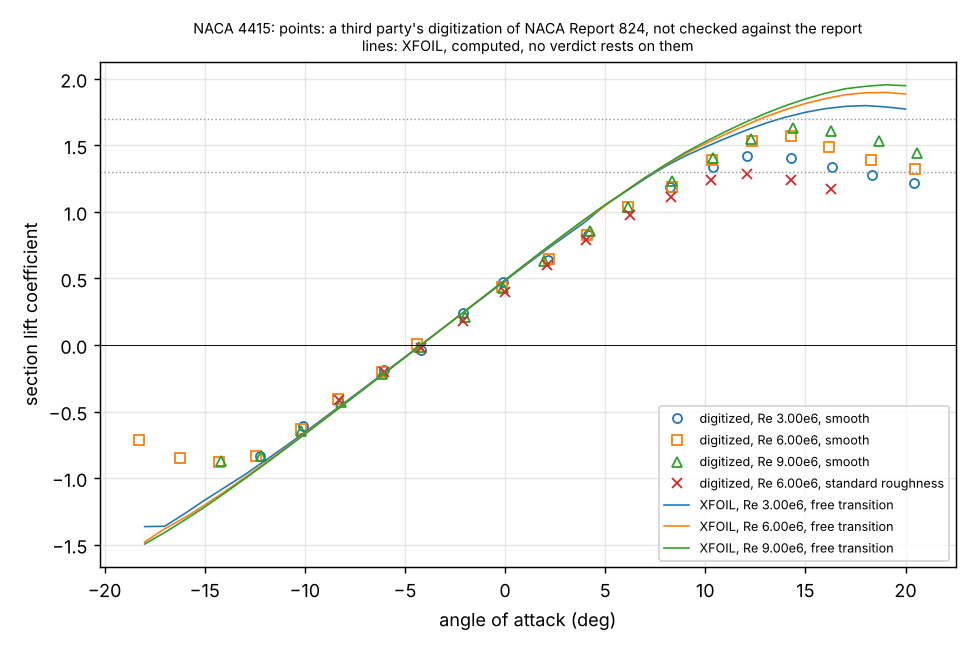
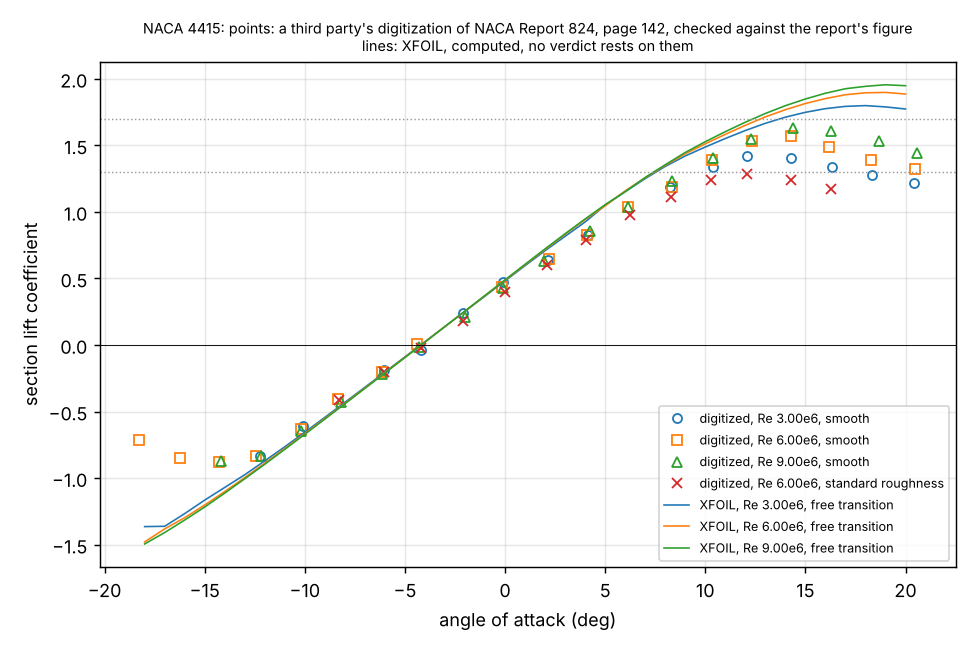
Task 12 PD P2 (report): report of the re-record with the figure check; one record test corrected
Rows 1 to 3 are no longer provisional: 11 of 11 digitized values agree with two readings of the figure on
page 142 of NACA Report 824 within a third of a symbol. No number of rows 1 to 7 changed. The record test
compared the source record with its JSON copy without allowing for JSON's text keys; fixed after the run.

Claude-Session: https://claude.ai/code/session_01VzP3mECvca1AkbqKiLURS4

Changed region(s): [[0.1538, 0.0308, 0.9538, 0.0615]]

diff --git a/tests/task12_pd/test_p2_record.py b/tests/task12_pd/test_p2_record.py
@@ -43,7 +43,7 @@ def test_record_has_its_files_and_says_where_it_comes_from(p):
 
 def test_record_carries_the_source_record_and_the_figure_check(p, acc):
     s = p["source"]
-    assert s == yaml.safe_load(p2.SOURCE.read_text())
+    assert s == json.loads(json.dumps(yaml.safe_load(p2.SOURCE.read_text())))        # JSON turns the set numbers into text
     assert s["report"]["opened_in_this_session"] is True and s["reading"]["read_twice"] is True
     assert s["sections"]["naca4415"]["figure"] is None and s["sections"]["naca4415"]["page"] == 142
     want = p2.figure_check(s, p2.measured_sets("naca4415"))

diff --git a/docs/validation/2026-11-27_task12_pd_p2.md b/docs/validation/2026-11-27_task12_pd_p2.md
@@ -1,20 +1,22 @@
 # Task 12 preliminary design P2: wing section and section data
 
-Generated by `python -m prelim.p2_section --report-only` from `runs/task12/pd/2026-11-27/p2/p2.json`. Every number below is read from that file. Spec: `docs/specs/task12_preliminary_design.md`, package P2 (decisions PD-5, PD-6). Bands and tolerances were fixed before the run; nothing was tuned. r0 (`runs/task12/pd/2026-11-27/p0/r0`) was read and not changed.
+Generated by `python -m prelim.p2_section --report-only` from `runs/task12/pd/2026-11-27/p2b/p2.json`. Every number below is read from that file. Spec: `docs/specs/task12_preliminary_design.md`, package P2 (decisions PD-5, PD-6). Bands and tolerances were fixed before the run; nothing was tuned. r0 (`runs/task12/pd/2026-11-27/p0/r0`) was read and not changed.
 
-Evidence class: **independent of Stage 1 and of the library (measured data), but read through a third party's digitization that was not checked against the report**.
+Evidence class: **independent of Stage 1 and of the library: measured data of NACA Report 824, read through a third party's digitization that was checked against the report's figure**.
+
+This record supersedes `runs/task12/pd/2026-11-27/p2` (made before NACA Report 824 could be opened; kept, see its `SUPERSEDED.md`).
 
 ## 1. Run
 
-- Command: `python -m prelim.p2_section --out runs/task12/pd/2026-11-27/p2`
-- Commit `0eee58d88d2158c11e95165de321835ab98f228d`; working tree at the start: clean (the run's own folder `runs/task12/pd/2026-11-27/p2` is not counted); unchanged during the run: yes.
+- Command: `python -m prelim.p2_section --out runs/task12/pd/2026-11-27/p2b`
+- Commit `3268b131e7b512d672133a19e7de289bcead8ab8`; working tree at the start: clean (the run's own folder `runs/task12/pd/2026-11-27/p2b` is not counted); unchanged during the run: yes.
 - Seed: none (no random numbers are drawn in P2). python 3.13.18, numpy 2.5.3, pyyaml 6.0.3, matplotlib 3.11.2. XFOIL 6.99.dfsg+1-3 (Debian package).
-- Inputs (sha256, first 12): `runs/task12/pd/2026-11-27/p0/r0/design_pusher.json` 2af85aca9acd; `runs/task12/pd/2026-11-27/p0/r0/ledger.yaml` a3b88c45e6cb; `runs/task12/pd/2026-11-27/p0/r0/cell_result.json` 83c078c1433f; `runs/task12/pd/2026-11-27/p0/r0/m250_table.json` 48e24462bb64; `data/task12/pd_p2_section_source.yaml` becb7cd4e350; `data/task12/tr824_digitized/142.ALL` c6f95d8eb794; `data/task12/tr824_digitized/NACA.LST` 2d140795c8bf.
-- Log: `runs/task12/pd/2026-11-27/p2/run.log`. Run time 9 s.
+- Inputs (sha256, first 12): `runs/task12/pd/2026-11-27/p0/r0/design_pusher.json` 2af85aca9acd; `runs/task12/pd/2026-11-27/p0/r0/ledger.yaml` a3b88c45e6cb; `runs/task12/pd/2026-11-27/p0/r0/cell_result.json` 83c078c1433f; `runs/task12/pd/2026-11-27/p0/r0/m250_table.json` 48e24462bb64; `data/task12/pd_p2_section_source.yaml` 4c07a7c0ef04; `data/task12/tr824_digitized/142.ALL` c6f95d8eb794; `data/task12/tr824_digitized/NACA.LST` 2d140795c8bf.
+- Log: `runs/task12/pd/2026-11-27/p2b/run.log`. Run time 9 s.
 
 ## 2. Acceptance rows
 
-Rows 1 to 5 are the spec's. Rows 6 and 7 were added in `tests/task12_pd/test_p2_section.py` and `prelim/p2_section.py` before the run.
+Rows 1 to 5 are the spec's. Rows 6 and 7 were added in `tests/task12_pd/test_p2_section.py` and `prelim/p2_section.py` before the first run; row 8 was added with the figure check. A verdict marked provisional rests on a digitized value that the figure check does not confirm.
 
 | # | Row | Result | Band or tolerance | Verdict |
 |---|---|---|---|---|
@@ -25,33 +27,55 @@ Rows 1 to 5 are the spec's. Rows 6 and 7 were added in `tests/task12_pd/test_p2_
 | 5 | SU2 validation row | owner default O-1: the Colab notebook is not started; P2 closes on measured data (PD-6) | slope 5 %, lift at zero angle 0.05, maximum lift 0.10 | **not run** |
 | 6 | added: the digitized lift curve against thin-airfoil theory (gross-error check of the source file) | zero-lift angle -0.07 deg from theory; slope 0.929 of 2 pi per radian | 1.0 deg; 0.85 to 1.15 | **pass** |
 | 7 | added: XFOIL polars as a third source (PD-6) | section 10 | - | **reported, no verdict** |
+| 8 | added: the digitized values against two readings of the report's figure, within the reading uncertainty | 11 of 11 values agree (section 4) | a third of a symbol | **pass** |
 
 ## 3. Findings
 
 1. **Clean wing maximum lift is lower than r0's. Finding for r1 (P9).** The digitized NACA 4415 points give a section maximum of 1.418 at Re 3.00 million, smooth (highest plotted point, at 12.1 deg). By (12.15) the clean wing has 1.276 against r0's 1.350; take-off 1.744 against 1.818, landing 2.056 against 2.130. r0 assumed a section value of 1.50. r0 is not changed here.
 2. **R17 re-flown on the built aircraft with that value.** Every loiter sub-step sits on the 1.3 V_stall floor (floor fraction 1.00), so the loiter speed rises from 87.26 to 89.75 kt true airspeed (mean of the leg) and the hours on station on r0's fuel fall from 11.00 to 10.90 h (-0.10 h). R5 needs 8.0 h at nominal values: still met. Clean stall at W0, sea level: 54.86 kt against 53.33 kt (R7 allows 70 kt; the clause holds down to a clean wing value of 0.78). Take-off over 50 ft 734 ft against 711 ft, landing 1,359 ft against 1,349 ft (limit 2,500 ft).
-3. **Reading scatter.** The digitized lift points of that set lie 0.034 (root mean square, 5 points) from a straight line between -6 and 6 deg. With the section value lowered by twice that (1.350) the clean wing has 1.215 and the built aircraft 10.80 h on station at 91.97 kt. That is still at or above the ledger band's low end of 1.3. The points were not read from the report here, so this scatter is the only measure of the reading error that this package has.
+3. **Reading scatter.** The digitized lift points of that set lie 0.034 (root mean square, 5 points) from a straight line between -6 and 6 deg. With the section value lowered by twice that (1.350) the clean wing has 1.215 and the built aircraft 10.80 h on station at 91.97 kt. That is still at or above the ledger band's low end of 1.3. This scatter is wider than the reading uncertainty of the figure check (section 4): it is mostly the tunnel's own scatter over 5 points. It is kept as the wider sensitivity.
 4. **The loiter is flown at a lower Reynolds number than the data covers.** R17's floor is 1.3 times the stall speed at the mission altitude. There the stall Reynolds number at the mean chord is 2.77 million, below the lowest set (3.00 million), and the tip is lower still (section 5). In the sets the maximum lift falls as the Reynolds number falls, so the value used here is, if anything, high for the loiter. Nothing was extrapolated. Data at 2 million or below, or the SU2 polars after their validation row, would close this.
 5. **The robustness study already covers this value.** The info-gap study of r0 moves the section maximum lift over 1.3 to 1.7, and its worst endurance point at h = 1 has it at 1.30: 3.83 h there (the cell record says 3.83 h; need 3.5 h). With the measured value in place of the band's low end, the same point gives 3.95 h. So the measured value moves the nominal aircraft, not the guarantee, as long as the band stays. Whether the band is re-centred on the measurement is for P9 and Gate C (C7).
 6. **Interaction with P1's findings 1 and 2 (climb at the worst endurance point).** A lower clean maximum lift raises the stall speed at the top of the climb at nominal values too. P1's climb check was not run again here; P9 runs it on r1.
 7. **Section moment.** Mean moment coefficient about the quarter chord between -6 and 6 deg: -0.0911 (5 points, -0.0935 to -0.0882). The ledger has -0.08 with the band -0.10 to -0.04: inside the band, so no finding by the spec's rule; the measured value is more nose-down than the ledger's and goes to P4's trim check and to r1 as an input.
-8. **The source is a digitization, not the report.** NACA Report 824 could not be opened from the container (its hosts were refused by the session's network proxy). The points are a public third-party digitization of the report's figure. They were not read twice and not compared with the figure. Section 4 says what has to be done to close this.
-9. **No measured data for the tail section.** NACA.LST of the archive lists the NACA 0006 and 0009 and no 0012, and the report could not be opened to look for it. No measured 0012 data is used in P2. The NACA 0012 rows of section 10 are XFOIL only.
+8. **The digitized file was checked against the report's figure.** NACA Report 824 was opened (NTRS 19930090976, printed page 142). 11 of 11 values agree with two readings of the figure within the reading uncertainty (section 4). The maximum lift of the set used reads 1.414 and 1.415 on the figure against 1.418 digitized. The largest difference in maximum lift is 0.012 (set 2; uncertainty 0.013). Rows 1 to 3 are no longer provisional. This record supersedes `runs/task12/pd/2026-11-27/p2`, which was made before the report could be opened; no number of rows 1 to 7 changed.
+9. **The drawn curve peaks above the highest symbol.** The drawn curve of the 3.0 million set peaks at about 1.43 between its two highest symbols (one reading by eye). P2's rule takes the highest symbol. The rule was fixed before the figure was seen and is kept; it is the lower of the two readings of the section maximum. P9 decides which one r1 takes.
+10. **No measured data for the tail section.** NACA Report 824 has no section-characteristics page for the NACA 0012: the index of its part V (printed page 129) lists the NACA 0006 (page 131) and 0009 (page 132) and then the NACA 1408; the 0012 appears in the report only as a thickness form (ordinates and pressure distribution). No measured 0012 data is used in P2. A candidate that was not opened: NACA-TR-586 (NTRS 19930091662). The NACA 0012 rows of section 10 are XFOIL only.
 
-## 4. Source of the section data
+## 4. Source of the section data and the figure check
 
-- Report: NACA Report 824 (TR-824). Opened in this session: **no**. The report is a scan and its hosts were not reachable from the container on 2026-11-27. The points used here were therefore not read from the report's figure by this project. They are a third party's digitization of that figure (below).
-- What was tried and refused: `ntrs.nasa.gov` (curl: curl: (56) CONNECT tunnel failed, response 403 (egress proxy: connect_rejected)); `ntrs.nasa.gov` (WebFetch: getaddrinfo ENOTFOUND ntrs.nasa.gov (outside the session's allowed network domains)); `archive.org` (curl: no connection through the proxy (HTTP code 000)); `web.archive.org` (curl: no connection through the proxy (HTTP code 000)); `digital.library.unt.edu` (curl: no connection through the proxy (HTTP code 000)); `naca.central.cranfield.ac.uk` (curl: no connection through the proxy (HTTP code 000)); `m-selig.ae.illinois.edu` (curl: no connection through the proxy (HTTP code 000)); `airfoiltools.com` (curl: no connection through the proxy (HTTP code 000)).
-- What was used: Text files of the plotted points of NACA TR 824, one file per page of the report, made in 1994 by Gregory P. D. Siemens at the University of Saskatchewan and declared public domain in the archive's Readme.txt. Each file holds angle of attack against lift coefficient, angle of attack against moment coefficient about the quarter chord, lift coefficient against drag coefficient, and lift coefficient against moment coefficient about the aerodynamic centre.
[1 lines of base64/hex data omitted]
+- Refused in the first pass: `ntrs.nasa.gov` (curl: curl: (56) CONNECT tunnel failed, response 403 (egress proxy: connect_rejected)); `ntrs.nasa.gov` (WebFetch: getaddrinfo ENOTFOUND ntrs.nasa.gov (outside the session's allowed network domains)); `archive.org` (curl: no connection through the proxy (HTTP code 000)); `web.archive.org` (curl: no connection through the proxy (HTTP code 000)); `digital.library.unt.edu` (curl: no connection through the proxy (HTTP code 000)); `naca.central.cranfield.ac.uk` (curl: no connection through the proxy (HTTP code 000)); `m-selig.ae.illinois.edu` (curl: no connection through the proxy (HTTP code 000)); `airfoiltools.com` (curl: no connection through the proxy (HTTP code 000)).
+- NACA 4415: printed page **142** (page 144 of the PDF). Figure number: none; the figures of the report's part V are not numbered. Caption: "Aerodynamic characteristics of the NACA 4415 airfoil section, 24-inch chord." Legend: R: circle 3.0 x 10^6 (a.c. position x/c 0.241, y/c -0.066); square 6.0 (0.241, -0.040); diamond 9.0 (0.245, -0.040); triangle 6.0, standard roughness; inverted triangle 6.0, 0.20c simulated split flap deflected 60 deg.
+- Reynolds numbers of the sets checked against the legend: yes. set 1: 3.00 million, smooth; set 2: 6.00 million, smooth; set 3: 9.00 million, smooth; set 4: 6.00 million, standard roughness.
+- The points used: Text files of the plotted points of NACA TR 824, one file per page of the report, made in 1994 by Gregory P. D. Siemens at the University of Saskatchewan and declared public domain in the archive's Readme.txt. Each file holds angle of attack against lift coefficient, angle of attack against moment coefficient about the quarter chord, lift coefficient against drag coefficient, and lift coefficient against moment coefficient about the aerodynamic centre.
 - Repository https://github.com/enritoomey/Perfiles2D at commit `64511f3a404398b6637fae047e2747b99ab0bf53`, folder `TR824-Digitized` (MIT (file License of the repository)); fetched 2026-11-27, git clone --depth 1 through the session proxy.
 - `142.ALL`: https://github.com/enritoomey/Perfiles2D/blob/64511f3a404398b6637fae047e2747b99ab0bf53/TR824-Digitized/142.ALL ; sha256 `c6f95d8eb794a027`; committed as `data/task12/tr824_digitized/142.ALL`; byte for byte the same as TR824-Digitized/4415.txt of the same commit (cmp, 2026-11-27).
 - `NACA.LST`: https://github.com/enritoomey/Perfiles2D/blob/64511f3a404398b6637fae047e2747b99ab0bf53/TR824-Digitized/NACA.LST ; sha256 `2d140795c8bf9c78`; committed as `data/task12/tr824_digitized/NACA.LST`.
 - `Readme.txt`: https://github.com/enritoomey/Perfiles2D/blob/64511f3a404398b6637fae047e2747b99ab0bf53/TR824-Digitized/Readme.txt ; sha256 `49e5118b9279d4aa`; not committed (it carries a private e-mail address).
-- NACA 4415: file `142.ALL`. The archive's index says the file name is the report's page number: page **142**. Checked against the report: no. Figure number: not known (the archive gives none).
-- Sets used and their Reynolds numbers (the archive's Readme gives them as approximate): set 1: 3.00 million, smooth; set 2: 6.00 million, smooth; set 3: 9.00 million, smooth; set 4: 6.00 million, standard roughness.
-- Read twice: **no**. Not transcribed by hand at all. The committed file is the archive's file, byte for byte (sha256 above), and the loader parses it. So there is no transcription step of this project that could be wrong, and there is no second reading of the report's figure either: the digitizer's reading error is unknown.
-- Reading uncertainty: The scatter of the digitized lift points about a straight line fitted between -6 and +6 degrees is computed in the run and reported as the reading scatter. It contains the tunnel's own scatter and any curvature, so it over-states the digitizing error alone. The highest plotted point is taken as the maximum lift; the test points are about 2 degrees apart, so a faired peak between two points could be higher by an amount the points do not show.
-- To close: When ntrs.nasa.gov (or another host of the scan) is allowed: open page 142 of NACA Report 824, record the figure number, and read the maximum lift, the minimum lift and five points of each lift curve twice against this file.
+- Read twice: **yes**. The committed file is the archive's file, byte for byte (sha256 above), and the loader parses it; nothing was typed by hand. The values P2 uses were then read twice on the report's figure (figure_check) and the digitized file was compared with them.
+- Reading A: By eye on enlarged crops: the centre of each symbol against the neighbouring grid lines; for the zero-lift angle and the slope, the drawn curve.
+- Reading B: By code: centroid of the enclosed white interior of the symbol (prelim/p2_figure_read.py). For the zero-lift angle and the slope, a second reading by eye on tighter crops; for the moment, the mean of the seven interiors of 50 pixels or more between -6.2 and 6.1 deg. Tool: prelim/p2_figure_read.py (needs the scan, which is not committed).
+- Reading uncertainty: A third of a symbol. A symbol is about 14 pixels across at 300 dpi, which is 0.039 in lift, 0.78 deg, 0.00039 in drag and 0.0097 in moment. For the slope: two lift readings 12 deg apart.
+- Overlay: Every digitized lift, moment and drag point of sets 1 to 4 was drawn on the scan; each falls on a symbol of the right kind (circle, square, diamond, triangle for sets 1, 2, 3, 4). By code, 26 of the 65 lift points had one clean symbol interior beside them: digitized minus centroid 0.008 root mean square and 0.024 at most in lift, 0.14 deg and 0.35 deg in angle. 30 of the 49 drag points: 0.00008 root mean square and 0.00021 at most in drag. The other symbols overlap or are cut by a grid line.
+
+| Quantity | Set | Digitized | Reading A | Reading B | Digitized minus mean reading | Uncertainty | Agrees |
+|---|---|---|---|---|---|---|---|
+| maximum lift | 1 | 1.418 | 1.414 | 1.415 | 0.003 | 0.013 | yes |
+| maximum lift | 2 | 1.570 | 1.558 | 1.557 | 0.012 | 0.013 | yes |
+| maximum lift | 3 | 1.628 | 1.626 | 1.622 | 0.004 | 0.013 | yes |
+| maximum lift | 4 | 1.287 | 1.288 | 1.283 | 0.002 | 0.013 | yes |
+| lowest drag | 1 | 0.00741 | 0.00736 | 0.00735 | 0.00006 | 0.00013 | yes |
+| lowest drag | 2 | 0.00662 | 0.00664 | 0.00664 | -0.00002 | 0.00013 | yes |
+| lowest drag | 3 | 0.00630 | 0.00632 | 0.00635 | -0.00003 | 0.00013 | yes |
+| lowest drag | 4 | 0.01071 | 0.01075 | 0.01073 | -0.00003 | 0.00013 | yes |
+| zero-lift angle (deg) | 1 | -4.23 | -4.13 | -3.96 | -0.18 | 0.26 | yes |
+| lift-curve slope (1/deg) | 1 | 0.1019 | 0.1030 | 0.1015 | -0.0003 | 0.0015 | yes |
+| moment about the quarter chord | 1 | -0.0911 | -0.0898 | -0.0932 | 0.0004 | 0.0032 | yes |
+
+- Zero-lift angle and slope were read on the drawn curve, where the three smooth sets lie within the line width; they are compared with the fit of the set used (set 1).
+- The fit of set 2 (slope 0.0970 per deg, zero-lift angle -4.51 deg) does not agree with the figure (0.102, -4.0). The set has four points between -6 and 6 deg, and its point near -4.4 deg is 0.25 deg to the left of its symbol. No P2 row uses the fit of set 2.
+- The drawn curve of the 3.0 million set peaks at about 1.43 between its two highest symbols (one reading by eye). P2's rule takes the highest symbol.
 
 ## 5. Reynolds and Mach numbers (step 1)
 
@@ -134,7 +158,7 @@ Worst endurance point of r0's info-gap study at h = 1 (all its moved values): 3.
 
 ## 9. Standard roughness (row 4, a sensitivity)
 
-At Re 6.00 million the rough set has a maximum lift of 1.287 against 1.570 smooth (-0.282), and a lowest drag of 0.0107 against 0.0066. The rough maximum is below the ledger band (1.3 to 1.7); by (12.15) it would give a clean wing value of 1.159. There is no rough set at the stall Reynolds number in the archive. No verdict: the archive calls it standard roughness and the report was not opened to see what that is.
+At Re 6.00 million the rough set has a maximum lift of 1.287 against 1.570 smooth (-0.282), and a lowest drag of 0.0107 against 0.0066. The rough maximum is below the ledger band (1.3 to 1.7); by (12.15) it would give a clean wing value of 1.159. The figure has no rough set at the stall Reynolds number. No verdict: the figure's legend says standard roughness; the report's definition of it was not transcribed.
 
 ## 10. XFOIL, third source (row 7, PD-6)
 
@@ -156,16 +180,16 @@ XFOIL's maximum lift is not a substitute for the measured one (PD-6), and its NA
 
 ## 12. Tail section (NACA 0012)
 
-Status: **not obtained**. NACA.LST of the archive lists the NACA 0006 and 0009 and no 0012, and the report could not be opened to look for it. No measured 0012 data is used in P2. PD-5 keeps the NACA 0012 for the tails; its shape is analytic, so P3 can loft it. Its measured lift curve and maximum lift stay open for P4.
+Status: **not obtained**. NACA Report 824 has no section-characteristics page for the NACA 0012: the index of its part V (printed page 129) lists the NACA 0006 (page 131) and 0009 (page 132) and then the NACA 1408; the 0012 appears in the report only as a thickness form (ordinates and pressure distribution). No measured 0012 data is used in P2. A candidate that was not opened: NACA-TR-586 (NTRS 19930091662). PD-5 keeps the NACA 0012 for the tails; its shape is analytic, so P3 can loft it. Its measured lift curve and maximum lift stay open for P4. Report 824 does have the NACA 0009 (printed page 132), which is not the tail section and was not transcribed.
 
 ## 13. Assumptions made where the spec left a choice
 
 1. The section value for rows 1 and 2 is the smooth set at the tabulated Reynolds number nearest (by ratio) to the stall Reynolds number at the mean chord, sea level, W0. The interpolated value is reported beside it and not used.
 2. Maximum lift is the highest digitized point; no curve is faired through the points.
 3. The section moment is the mean of the quarter-chord moment points between -6 and 6 deg, taken as the ledger's zero-lift moment `airfoil_cm0`.
-4. A public third-party digitization of the report's figure was used because the report could not be opened. The package brief said to stop the data steps if no open source could be reached; one could, so the data steps were done and the difference is stated in sections 3, 4 and 14.
+4. A public third-party digitization of the report's figure is used for the points, and the values P2 uses are checked against two readings of the figure. The digitized values stay the numbers of record where they agree, because they cover every point and the readings cover eleven values.
 5. The digitizer's file is committed unchanged and parsed, instead of being typed into a table.
-6. The Reynolds numbers of the sets are the archive's approximate values. The order of the sets agrees with them: maximum lift rises and lowest drag falls from set 1 to set 3.
+6. The reading uncertainty is a third of a symbol on the 300 dpi scan. It was set when the figure was read, after the first record; it is a judgement of how well a symbol's centre can be placed.
 7. The split-flap set of the archive is not used: the aircraft has slotted flaps, taken from Table 12.2 as in Stage 1.
 8. XFOIL is run with its defaults (free transition, Ncrit 9). The Debian build stops with a floating-point exception when plotting is off, so it is run with plotting on under a virtual display (`xvfb-run`).
 9. No SU2 case files were written: they need a mesh and a turbulence-model choice that belong to the SU2 case spec.
@@ -173,8 +197,8 @@ Status: **not obtained**. NACA.LST of the archive lists the NACA 0006 and 0009 a
 
 ## 14. What this does not show
 
-- It does not show that the digitized points are the report's points. Nobody here saw the figure.
-- It does not give the figure number, and the page number is the archive's statement.
+- The figure check covers eleven values and an overlay of every point; it is not a second digitization of every point.
+- Both readings were made by the same reader in one session; reading B is by code where a symbol stands alone.
 - It does not give the maximum lift at the tip's Reynolds number, which is below the lowest set.
 - It does not give measured data for the NACA 0012.
 - It does not validate SU2, and XFOIL's numbers validate nothing.
